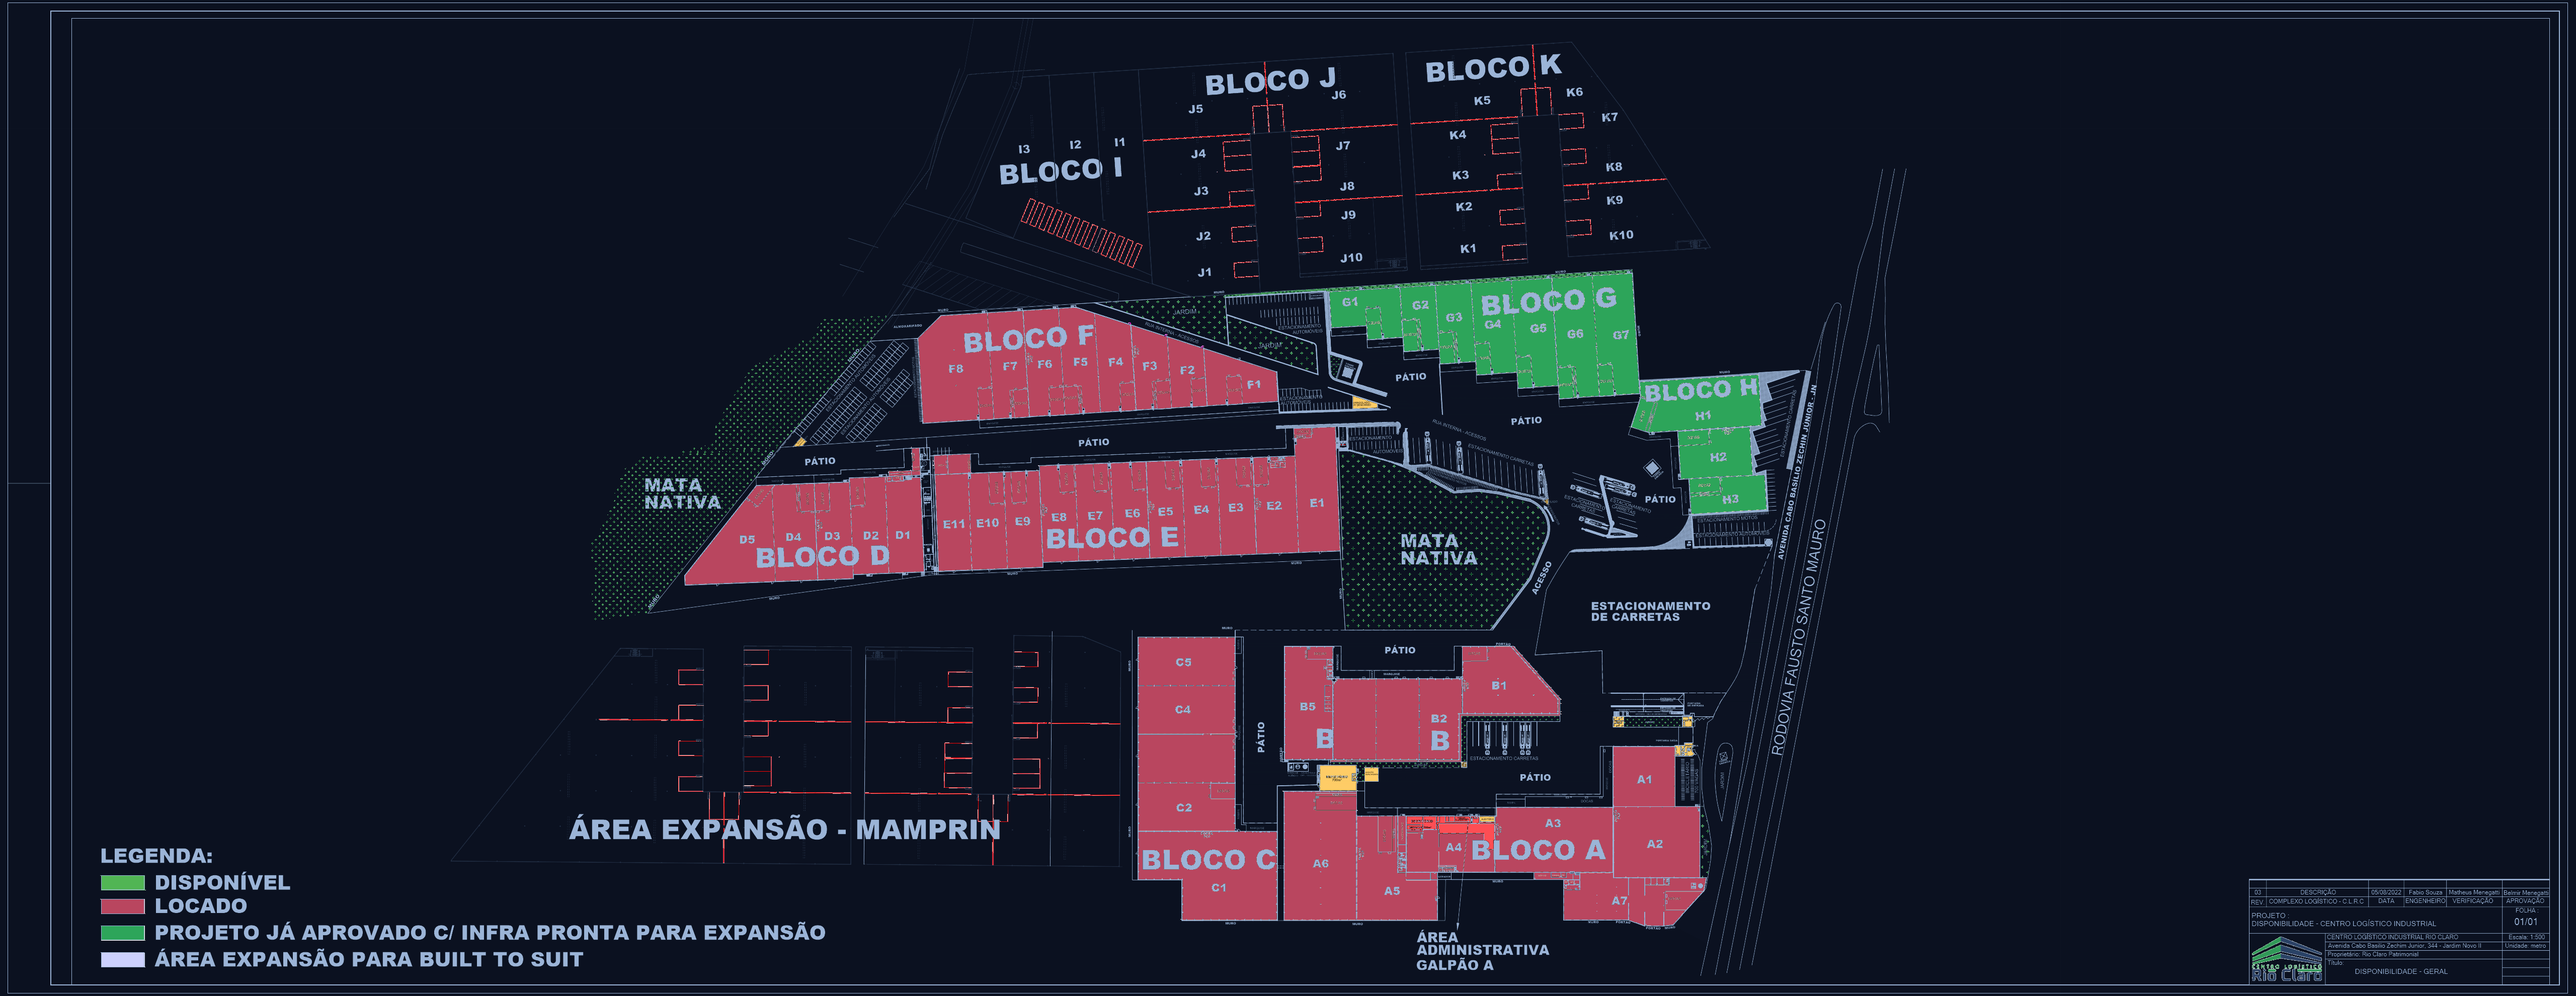
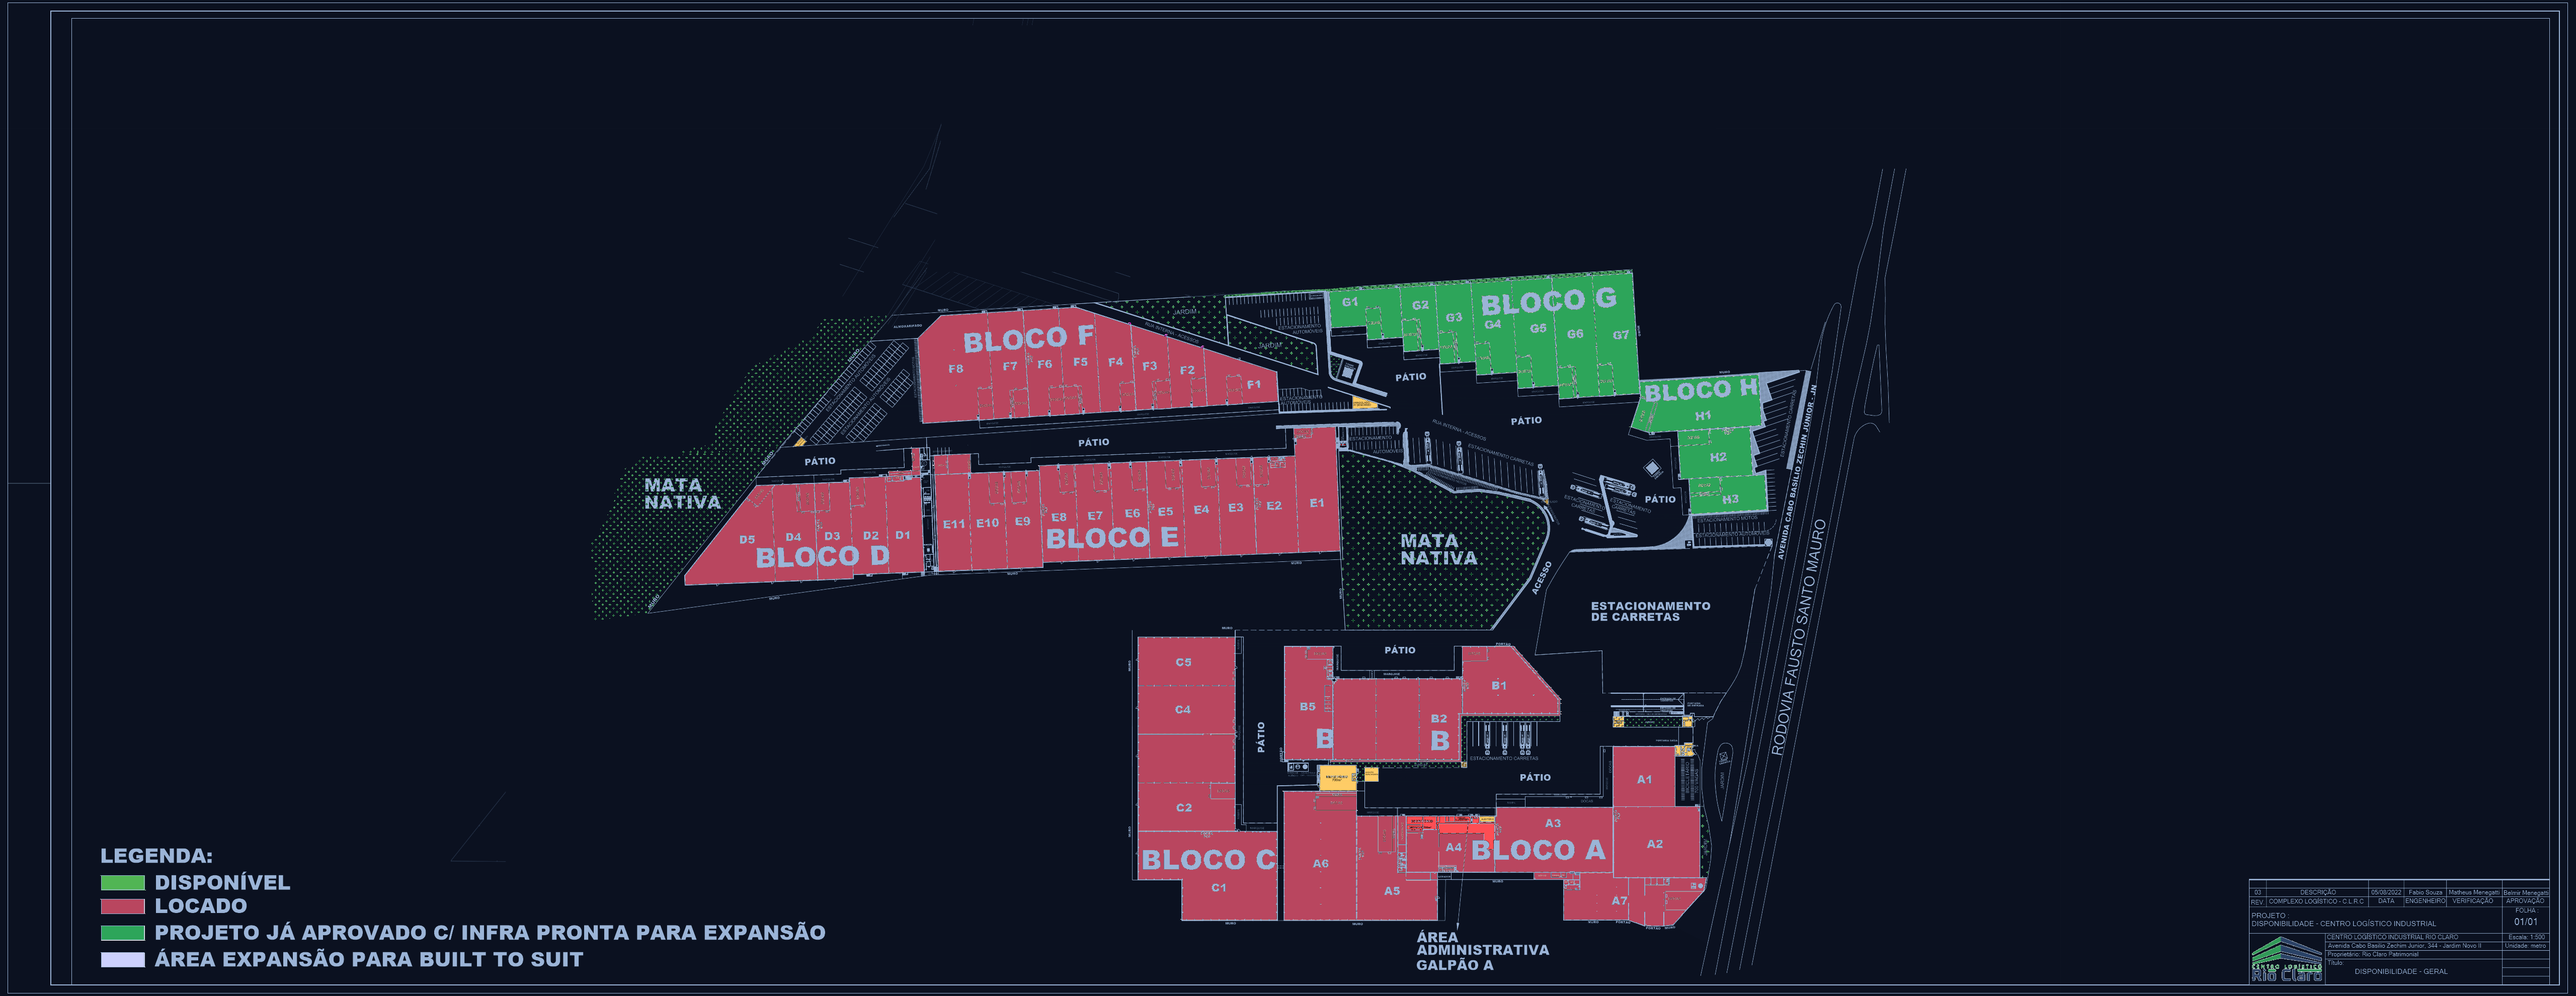
Versão sem IJK

diff --git a/src/app/page.tsx b/src/app/page.tsx
@@ -17,11 +17,9 @@ export default function Home() {
   const [viewMode, setViewMode] = useState<'Campus' | '2D' | 'Rodovia' | 'Patio'>('Campus');
   const [isOpenRoof, setIsOpenRoof] = useState(false);
   const [isLightBlueprint, setIsLightBlueprint] = useState(false);
-  const [filterStatus, setFilterStatus] = useState<BlockStatus | null>(null);
 
   // Responsividade Mobile
   const [isMobile, setIsMobile] = useState(false);
-  const [isMobileFilterOpen, setIsMobileFilterOpen] = useState(false);
 
   useEffect(() => {
     const handleResize = () => {
@@ -55,7 +53,6 @@ export default function Home() {
           resetTrigger={resetTrigger}
           viewMode={viewMode}
           isOpenRoof={isOpenRoof}
-          filterStatus={filterStatus}
           isLightBlueprint={isLightBlueprint}
         />
       </div>
@@ -159,25 +156,6 @@ export default function Home() {
             >
               {isLightBlueprint ? '☀' : '🌙'}
             </button>
-
-            {/* No Mobile: Botão para abrir filtros */}
-            {isMobile && (
-              <button
-                onClick={() => setIsMobileFilterOpen(!isMobileFilterOpen)}
-                style={{
-                  padding: '6px 9px',
-                  background: isMobileFilterOpen ? '#3b82f6' : 'rgba(30, 41, 59, 0.8)',
-                  color: isMobileFilterOpen ? '#ffffff' : '#cbd5e1',
-                  borderRadius: '8px',
-                  border: '1px solid rgba(59, 130, 246, 0.4)',
-                  cursor: 'pointer',
-                  fontSize: '11px',
-                  fontWeight: 700,
-                }}
-              >
-                🏷
-              </button>
-            )}
           </div>
         </div>
 
@@ -288,144 +266,6 @@ export default function Home() {
           </button>
         </div>
       </div>
-
-      {/* 3. FILTROS DA PLANTA OFICIAL (DESKTOP: CANTO INFERIOR ESQUERDO / MOBILE: POPUP) */}
-      {(!isMobile || isMobileFilterOpen) && (
-        <div
-          style={{
-            position: 'absolute',
-            bottom: isMobile ? '16px' : '20px',
-            left: isMobile ? '10px' : '20px',
-            right: isMobile ? '10px' : 'auto',
-            zIndex: 45,
-            display: 'flex',
-            flexDirection: 'column',
-            gap: '8px',
-            background: 'rgba(15, 23, 42, 0.94)',
-            padding: isMobile ? '10px 14px' : '12px 16px',
-            borderRadius: '12px',
-            border: '1px solid rgba(51, 65, 85, 0.7)',
-            backdropFilter: 'blur(12px)',
-            boxShadow: '0 10px 25px -5px rgba(0, 0, 0, 0.6)',
-            maxWidth: isMobile ? 'none' : '320px',
-          }}
-        >
-          <div style={{ display: 'flex', justifyContent: 'space-between', alignItems: 'center' }}>
-            <span style={{ fontSize: '11px', color: '#94a3b8', fontWeight: 700, textTransform: 'uppercase' }}>
-              Filtrar Galpões por Status
-            </span>
-            {isMobile && (
-              <button
-                onClick={() => setIsMobileFilterOpen(false)}
-                style={{ background: 'transparent', border: 'none', color: '#94a3b8', fontSize: '14px', cursor: 'pointer' }}
-              >
-                ✕
-              </button>
-            )}
-          </div>
-          <div style={{ display: 'flex', flexWrap: 'wrap', gap: '6px' }}>
-            {/* Todos */}
-            <button
-              onClick={() => {
-                setFilterStatus(null);
-                if (isMobile) setIsMobileFilterOpen(false);
-              }}
-              style={{
-                padding: '4px 10px',
-                fontSize: '11px',
-                fontWeight: 700,
-                borderRadius: '6px',
-                border: 'none',
-                cursor: 'pointer',
-                background: filterStatus === null ? '#3b82f6' : '#1e293b',
-                color: filterStatus === null ? '#ffffff' : '#94a3b8',
-              }}
-            >
-              Todos ({COMPLEX_BLOCKS.length})
-            </button>
-
-            {/* Locado */}
-            <button
-              onClick={() => {
-                setFilterStatus(filterStatus === 'locado' ? null : 'locado');
-                if (isMobile) setIsMobileFilterOpen(false);
-              }}
-              style={{
-                padding: '4px 10px',
-                fontSize: '11px',
-                fontWeight: 700,
-                borderRadius: '6px',
-                border: `1px solid ${STATUS_COLORS.locado.border}`,
-                cursor: 'pointer',
-                background: filterStatus === 'locado' ? STATUS_COLORS.locado.hex : '#1e293b',
-                color: filterStatus === 'locado' ? '#ffffff' : STATUS_COLORS.locado.text,
-              }}
-            >
-              ● Locado
-            </button>
-
-            {/* Disponível */}
-            <button
-              onClick={() => {
-                setFilterStatus(filterStatus === 'disponivel' ? null : 'disponivel');
-                if (isMobile) setIsMobileFilterOpen(false);
-              }}
-              style={{
-                padding: '4px 10px',
-                fontSize: '11px',
-                fontWeight: 700,
-                borderRadius: '6px',
-                border: `1px solid ${STATUS_COLORS.disponivel.border}`,
-                cursor: 'pointer',
-                background: filterStatus === 'disponivel' ? STATUS_COLORS.disponivel.hex : '#1e293b',
-                color: filterStatus === 'disponivel' ? '#ffffff' : STATUS_COLORS.disponivel.text,
-              }}
-            >
-              ● Disponível
-            </button>
-
-            {/* Expansão */}
-            <button
-              onClick={() => {
-                setFilterStatus(filterStatus === 'expansao' ? null : 'expansao');
-                if (isMobile) setIsMobileFilterOpen(false);
-              }}
-              style={{
-                padding: '4px 10px',
-                fontSize: '11px',
-                fontWeight: 700,
-                borderRadius: '6px',
-                border: `1px solid ${STATUS_COLORS.expansao.border}`,
-                cursor: 'pointer',
-                background: filterStatus === 'expansao' ? STATUS_COLORS.expansao.hex : '#1e293b',
-                color: filterStatus === 'expansao' ? '#ffffff' : STATUS_COLORS.expansao.text,
-              }}
-            >
-              ● Expansão
-            </button>
-
-            {/* Mamprin */}
-            <button
-              onClick={() => {
-                setFilterStatus(filterStatus === 'mamprin' ? null : 'mamprin');
-                if (isMobile) setIsMobileFilterOpen(false);
-              }}
-              style={{
-                padding: '4px 10px',
-                fontSize: '11px',
-                fontWeight: 700,
-                borderRadius: '6px',
-                border: `1px solid ${STATUS_COLORS.mamprin.border}`,
-                cursor: 'pointer',
-                background: filterStatus === 'mamprin' ? STATUS_COLORS.mamprin.hex : '#1e293b',
-                color: filterStatus === 'mamprin' ? '#ffffff' : STATUS_COLORS.mamprin.text,
-              }}
-            >
-              ● BTS
-            </button>
-          </div>
-        </div>
-      )}
 
       {/* 4. PAINEL DE DETALHES DO GALPÃO (DESKTOP: LATERAL / MOBILE: BOTTOM SHEET) */}
       {selectedBlock && (

diff --git a/src/app/data/complex-data.ts b/src/app/data/complex-data.ts
@@ -351,114 +351,6 @@ const RAW_BLOCKS: RawBlockConfig[] = [
       marquise: true,
     },
   },
-
-  // 9. BLOCO I (Expansão Noroeste - I3, I2, I1)
-  {
-    id: 'bloco-i',
-    name: 'BLOCO I',
-    code: 'I',
-    status: 'expansao',
-    statusLabel: 'PROJETO APROVADO / EXPANSÃO',
-    modules: ['I3', 'I2', 'I1'],
-    totalAreaM2: 4800,
-    docksCount: 6,
-    clearHeightM: 12,
-    height3D: 1.4,
-    pixelPolygon: [
-      [1935, 195],
-      [2260, 185],
-      [2245, 515],
-      [1860, 485],
-    ],
-    description: 'Área de expansão I1 a I3 com projeto aprovado e infraestrutura pronta.',
-    details: {
-      inquilino: 'Expansão Aprovada',
-      pisoCapacidade: '6 ton/m²',
-      rampaAcesso: true,
-      marquise: true,
-    },
-  },
-
-  // 10. BLOCO J (Expansão Norte Central - J1 a J10)
-  {
-    id: 'bloco-j',
-    name: 'BLOCO J',
-    code: 'J',
-    status: 'expansao',
-    statusLabel: 'PROJETO APROVADO / EXPANSÃO',
-    modules: ['J1', 'J2', 'J3', 'J4', 'J5', 'J6', 'J7', 'J8', 'J9', 'J10'],
-    totalAreaM2: 12000,
-    docksCount: 20,
-    clearHeightM: 12,
-    height3D: 1.4,
-    pixelPolygon: [
-      [2275, 135],
-      [2775, 115],
-      [2785, 500],
-      [2285, 515],
-    ],
-    description: 'Condomínio modular norte (J1 a J10) com pátio central de docas.',
-    details: {
-      inquilino: 'Expansão Aprovada',
-      pisoCapacidade: '6 ton/m²',
-      rampaAcesso: true,
-      marquise: true,
-    },
-  },
-
-  // 11. BLOCO K (Expansão Nordeste - K1 a K10)
-  {
-    id: 'bloco-k',
-    name: 'BLOCO K',
-    code: 'K',
-    status: 'expansao',
-    statusLabel: 'PROJETO APROVADO / EXPANSÃO',
-    modules: ['K1', 'K2', 'K3', 'K4', 'K5', 'K6', 'K7', 'K8', 'K9', 'K10'],
-    totalAreaM2: 12000,
-    docksCount: 20,
-    clearHeightM: 12,
-    height3D: 1.4,
-    pixelPolygon: [
-      [2800, 110],
-      [3320, 85],
-      [3355, 480],
-      [2815, 500],
-    ],
-    description: 'Condomínio modular nordeste (K1 a K10) espelhado ao Bloco J.',
-    details: {
-      inquilino: 'Expansão Aprovada',
-      pisoCapacidade: '6 ton/m²',
-      rampaAcesso: true,
-      marquise: true,
-    },
-  },
-
-  // 12. ÁREA EXPANSÃO - MAMPRIN (Sudoeste - Built to Suit)
-  {
-    id: 'bloco-mamprin',
-    name: 'EXPANSÃO - MAMPRIN',
-    code: 'MAMPRIN',
-    status: 'mamprin',
-    statusLabel: 'BUILT TO SUIT',
-    modules: ['Galpão BTS 1', 'Galpão BTS 2', 'Galpão BTS 3', 'Galpão BTS 4'],
-    totalAreaM2: 18500,
-    docksCount: 24,
-    clearHeightM: 12,
-    height3D: 1.2,
-    pixelPolygon: [
-      [1310, 1285],
-      [2185, 1285],
-      [2185, 1695],
-      [1145, 1695],
-    ],
-    description: 'Área de expansão Mamprin dedicada a projetos Built to Suit de grande porte.',
-    details: {
-      inquilino: 'Disponível p/ Built to Suit',
-      pisoCapacidade: 'Até 8 ton/m²',
-      rampaAcesso: true,
-      marquise: true,
-    },
-  },
 ];
 
 // CONVERSÃO AUTOMÁTICA DOS POLÍGONOS DE PIXEL PARA GEOMETRIA 3D MUNDIAL

diff --git a/src/app/components/ComplexModel.tsx b/src/app/components/ComplexModel.tsx
@@ -15,7 +15,6 @@ interface ComplexModelProps {
   selectedBlockId: string | null;
   onSelectBlock: (block: ComplexBlock) => void;
   isOpenRoof: boolean;
-  filterStatus: string | null;
   isLightBlueprint?: boolean;
 }
 
@@ -205,7 +204,6 @@ export default function ComplexModel({
   selectedBlockId,
   onSelectBlock,
   isOpenRoof,
-  filterStatus,
   isLightBlueprint = false,
 }: ComplexModelProps) {
   const [hoveredBlockId, setHoveredBlockId] = useState<string | null>(null);
@@ -258,8 +256,6 @@ export default function ComplexModel({
 
       {/* 2. EXTRUSÃO 3D POLIGONAL DE TODOS OS BLOCOS (LIMPOS E SEM ESTOQUE) */}
       {COMPLEX_BLOCKS.map((block) => {
-        if (filterStatus && block.status !== filterStatus) return null;
-
         const isSelected = selectedBlockId === block.id;
         const isHovered = hoveredBlockId === block.id;
 

diff --git a/src/app/components/Scene.tsx b/src/app/components/Scene.tsx
@@ -11,7 +11,6 @@ interface SceneProps {
   resetTrigger: number;
   viewMode: 'Campus' | '2D' | 'Rodovia' | 'Patio';
   isOpenRoof: boolean;
-  filterStatus: string | null;
   isLightBlueprint?: boolean;
 }
 
@@ -85,7 +84,6 @@ export default function Scene({
   resetTrigger,
   viewMode,
   isOpenRoof,
-  filterStatus,
   isLightBlueprint = false,
 }: SceneProps) {
   const bgColor = isLightBlueprint ? '#e2e8f0' : '#060a14';
@@ -120,7 +118,6 @@ export default function Scene({
           selectedBlockId={selectedBlock?.id || null}
           onSelectBlock={onSelectBlock}
           isOpenRoof={isOpenRoof}
-          filterStatus={filterStatus}
           isLightBlueprint={isLightBlueprint}
         />
       </Suspense>
